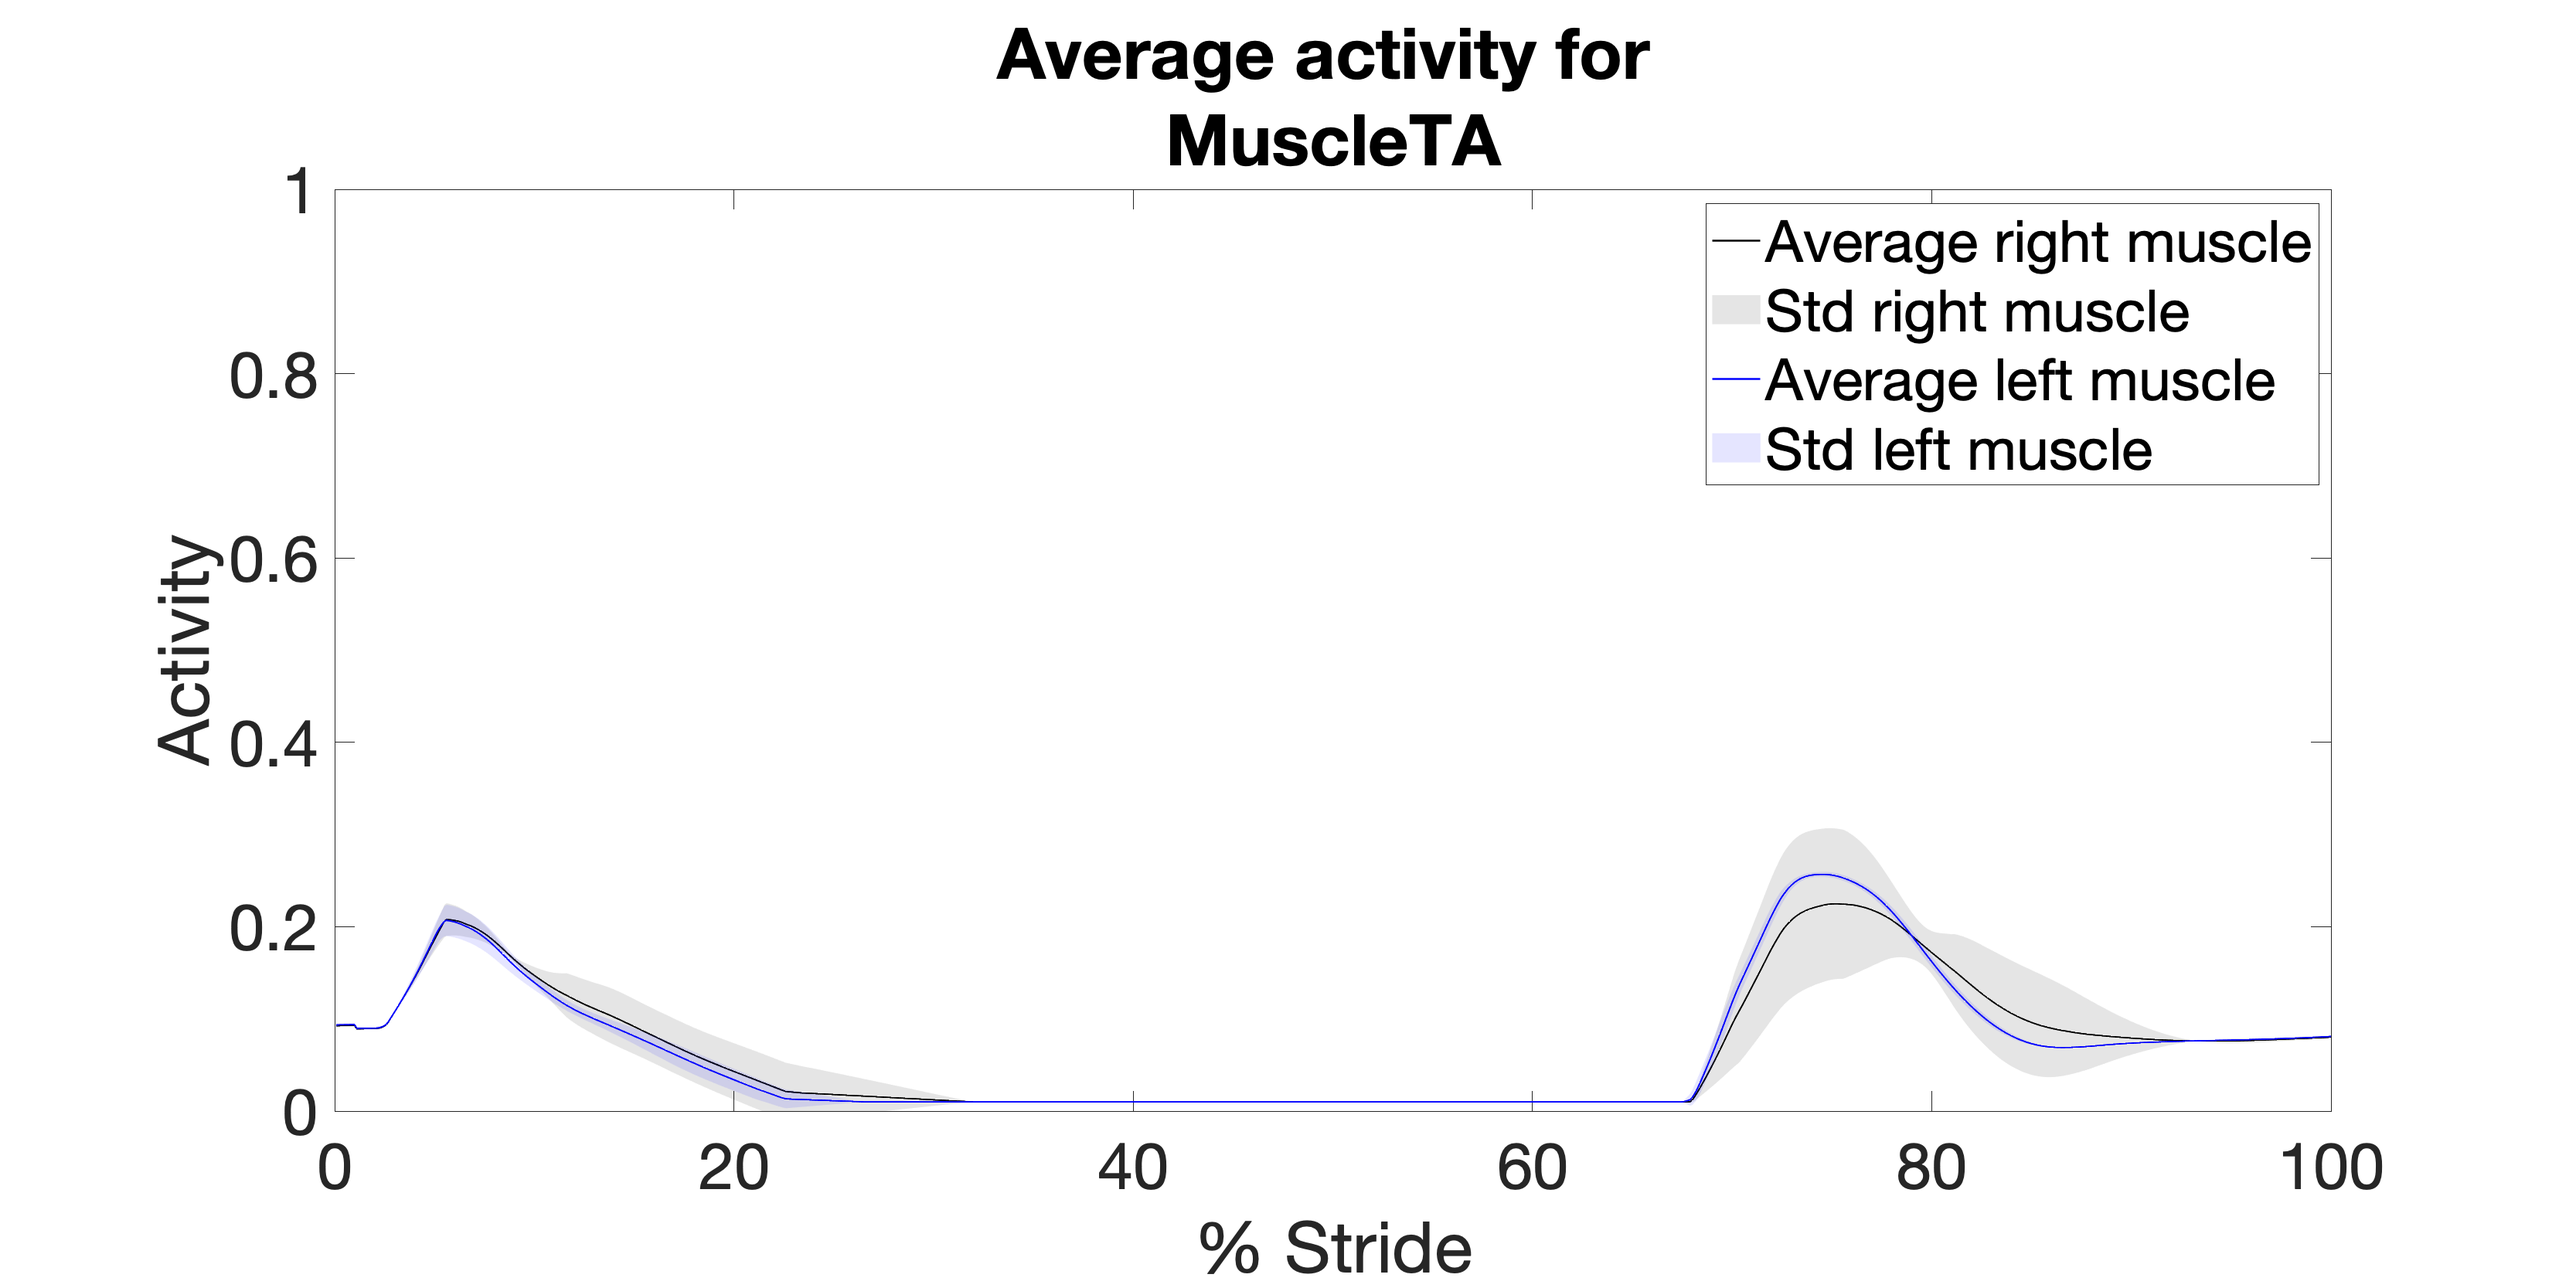
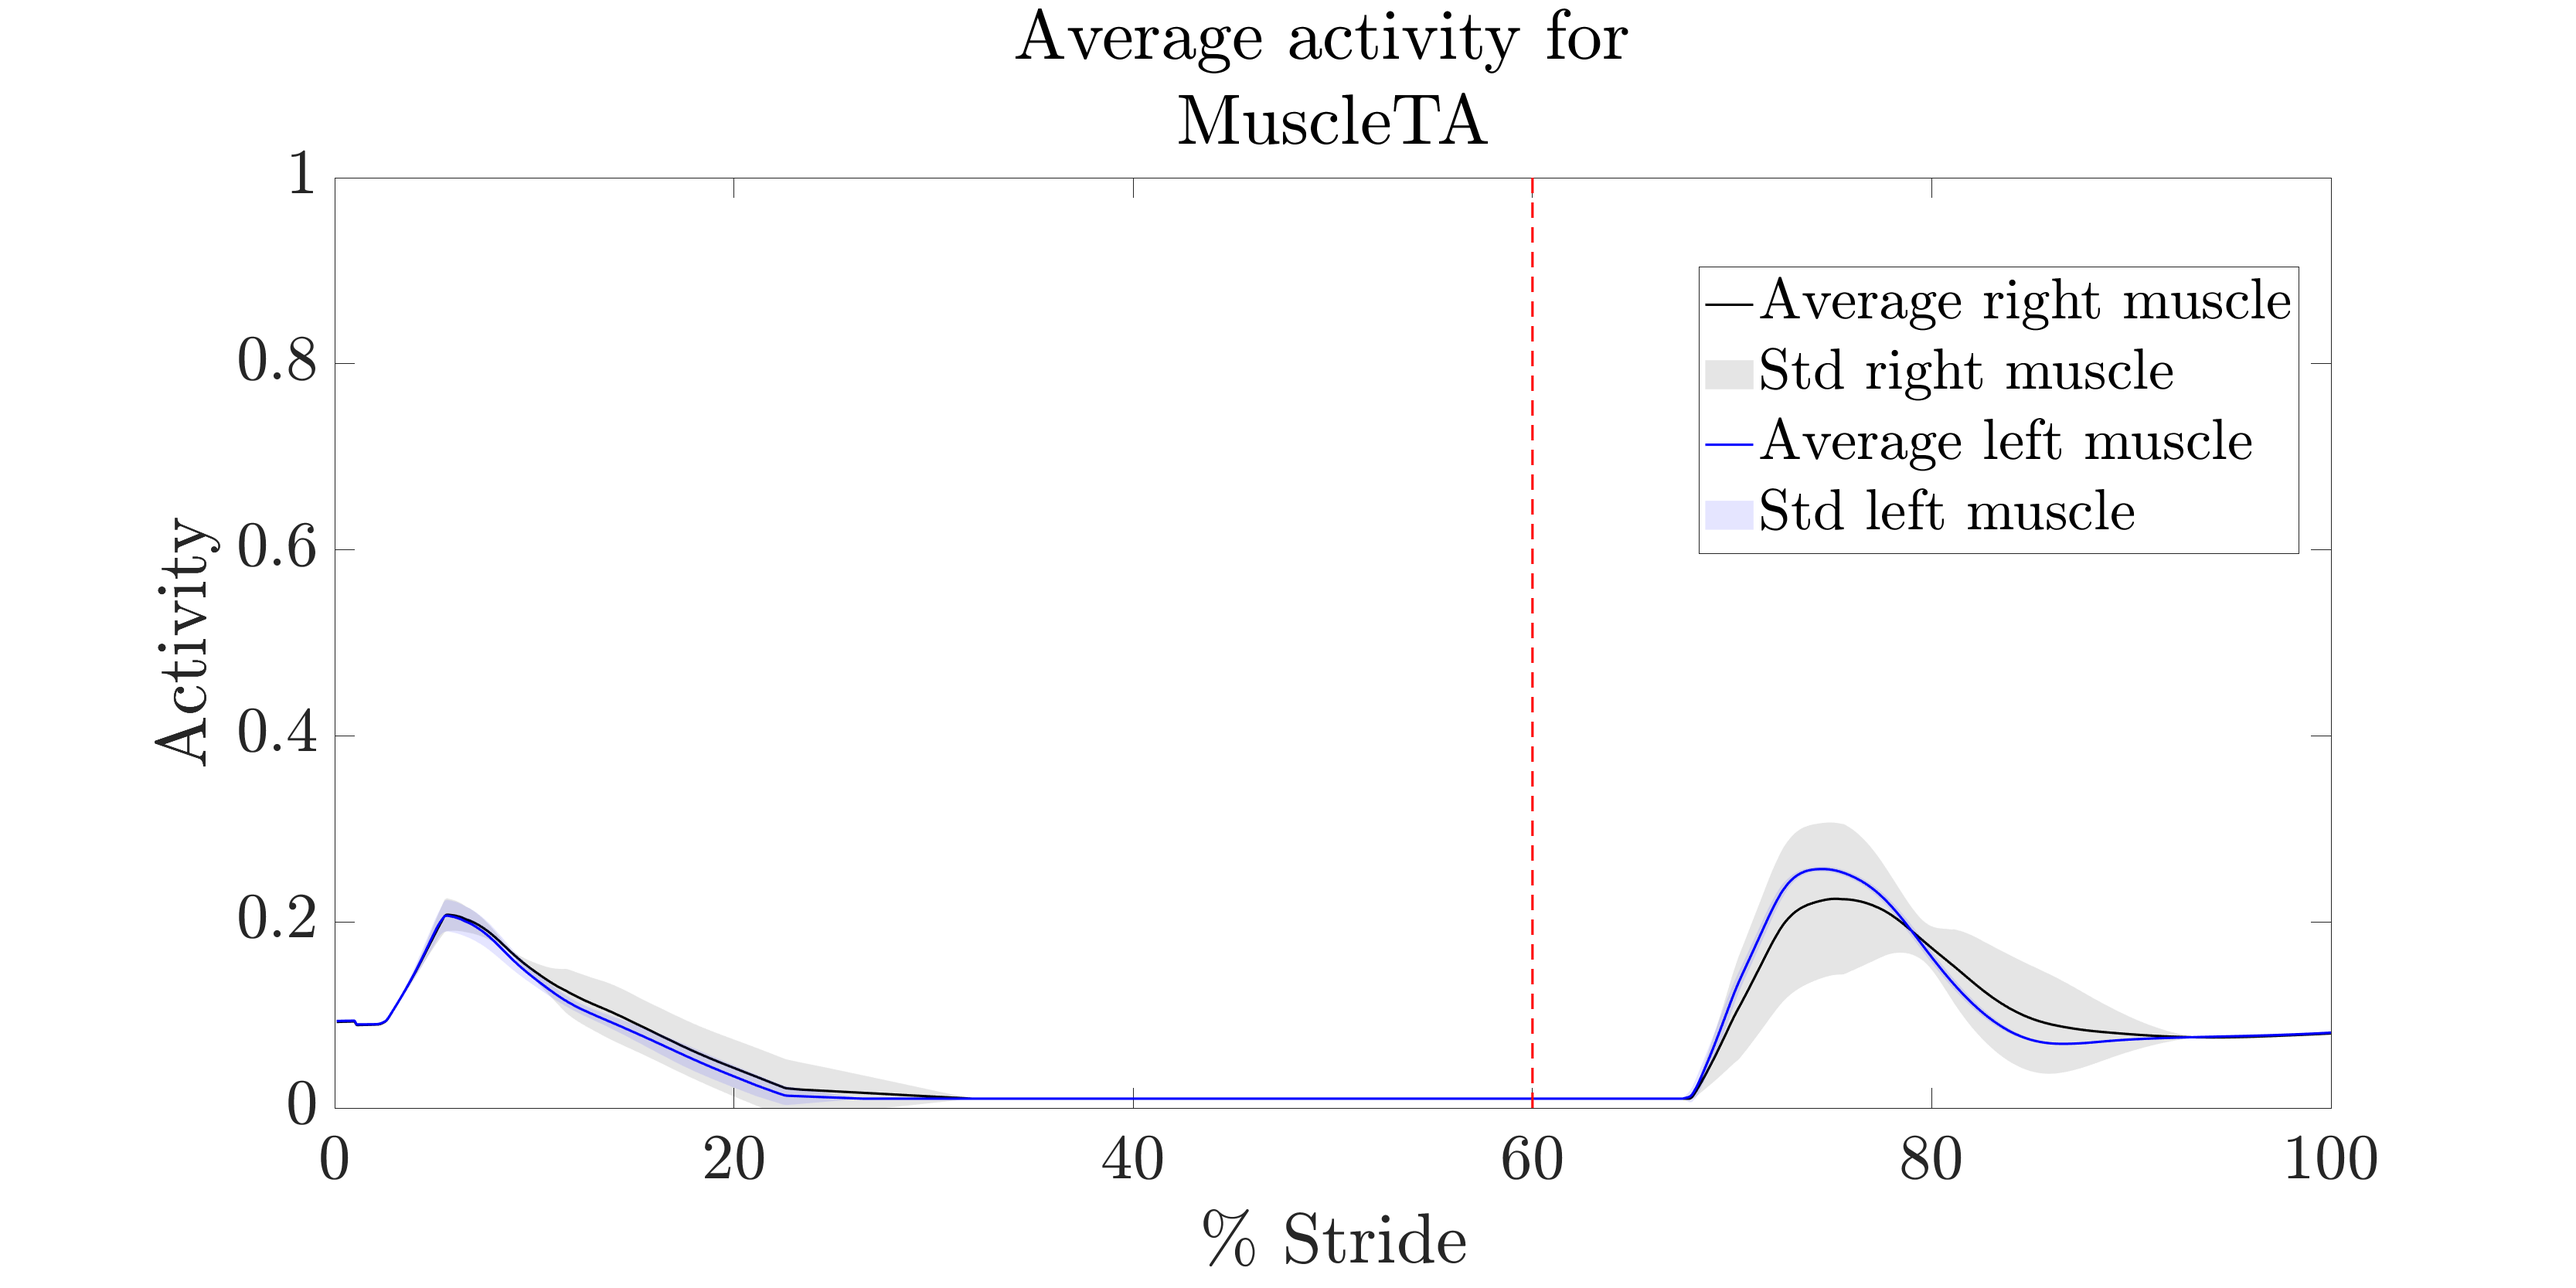
blabla

diff --git a/GEYER_Assignment/exercise2_data/Ex2.m b/GEYER_Assignment/exercise2_data/Ex2.m
@@ -167,7 +167,7 @@ for muscle = 1: length(muscles)
     indices_right = 1:1:length(mean_muscles_right.(muscles{muscle}));
     indices_right = (indices_right/nbr_points)*100;
     figure;
-    plot(indices_right,mean_muscles_right.(muscles{muscle}),'k','LineWidth',1.2);
+    plot(indices_right,mean_muscles_right.(muscles{muscle}),'k','LineWidth',1.5);
     fill_x = [indices_right,fliplr(indices_right)];
     fill_y = [mean_muscles_right.(muscles{muscle}) - std_muscles_right.(muscles{muscle}),fliplr((mean_muscles_right.(muscles{muscle}) + std_muscles_right.(muscles{muscle})))];
     patch(fill_x,fill_y,'k','EdgeColor','none');
@@ -175,19 +175,23 @@ for muscle = 1: length(muscles)
     hold on;
     indices_left = 1:1:length(mean_muscles_left.(muscles{muscle}));
     indices_left = (indices_left/nbr_points)*100;
-    plot(indices_left,mean_muscles_left.(muscles{muscle}),'b','LineWidth',1.2);
+    plot(indices_left,mean_muscles_left.(muscles{muscle}),'b','LineWidth',1.5);
+    
     fill_x = [indices_left,fliplr(indices_left)];
     fill_y = [mean_muscles_left.(muscles{muscle}) - std_muscles_left.(muscles{muscle}),fliplr((mean_muscles_left.(muscles{muscle}) + std_muscles_left.(muscles{muscle})))];
     patch(fill_x,fill_y,'b','EdgeColor','none');
     alpha(.1)
     
+    line([60 60], [0 1],'Color','red','LineStyle','--','LineWidth',1.5)
+    
     ax = gca;
     ax.FontSize = 40;
     axis([0 100 0 1])
-    xlabel('% Stride');
-    ylabel('Activity');
-    legend('Average right muscle','Std right muscle','Average left muscle','Std left muscle');
-    title({'Average activity for ',num2str(muscles{muscle})});
+    set(gca,'TickLabelInterpreter', 'latex');
+    xlabel('\% Stride','interpreter','latex');
+    ylabel('Activity','interpreter','latex');
+    legend('Average right muscle','Std right muscle','Average left muscle','Std left muscle','Location','Best','interpreter','latex');
+    title({'Average activity for ',num2str(muscles{muscle})},'interpreter','latex');
     set(gcf,'Position',[0 0 1600 800]);
     saveas(gcf,['Activity', num2str(muscles{muscle})],'png');
 end
@@ -234,7 +238,7 @@ for angle = 1: length(angles)
     indices_right = 1:1:length(mean_angles_right.(angles{angle}));
     indices_right = (indices_right/nbr_points)*100;
     figure;
-    plot(indices_right,mean_angles_right.(angles{angle}),'k','LineWidth',1.2);
+    plot(indices_right,mean_angles_right.(angles{angle}),'k','LineWidth',1.5);
     fill_x = [indices_right,fliplr(indices_right)];
     fill_y = [mean_angles_right.(angles{angle}) - std_angles_right.(angles{angle}),fliplr((mean_angles_right.(angles{angle}) + std_angles_right.(angles{angle})))];
     patch(fill_x,fill_y,'k','EdgeColor','none');
@@ -242,18 +246,24 @@ for angle = 1: length(angles)
     hold on;
     indices_left = 1:1:length(mean_angles_left.(angles{angle}));
     indices_left = (indices_left/nbr_points)*100;
-    plot(indices_left,mean_angles_left.(angles{angle}),'b','LineWidth',1.2);
+    plot(indices_left,mean_angles_left.(angles{angle}),'b','LineWidth',1.5);
     fill_x = [indices_left,fliplr(indices_left)];
     fill_y = [mean_angles_left.(angles{angle}) - std_angles_left.(angles{angle}),fliplr((mean_angles_left.(angles{angle}) + std_angles_left.(angles{angle})))];
     patch(fill_x,fill_y,'b','EdgeColor','none');
     alpha(.1)
+    
+    y_min = min(mean_angles_left.(angles{angle}))- 10;
+    y_max = max(mean_angles_left.(angles{angle})) + 10;
+    axis([0 100 y_min y_max])
+    
+    line([60 60],[y_min y_max],'Color','red','LineStyle','--','LineWidth',1.5)
     ax = gca;
     ax.FontSize = 40;
-    
-    xlabel('% Stride');
-    ylabel('Degrees');
-    title({'Average activity for',num2str(angles{angle})});
-    legend('Average right angle','Std right angle','Average left angle','Std left angle','Location','Best');
+    set(gca,'TickLabelInterpreter', 'latex');
+    xlabel('\% Stride','interpreter','latex');
+    ylabel('Degrees','interpreter','latex');
+    legend('Average right angle','Std right angle','Average left angle','Std left angle','Location','Best','interpreter','latex');
+    title({'Average activity for ',num2str(angles{angle})},'interpreter','latex');
     set(gcf,'Position',[0 0 1600 800]);
     saveas(gcf,['Activity', num2str(angles{angle})],'png');
 end
@@ -302,7 +312,7 @@ for torque= 1: length(torques)
     indices_right = 1:1:length(mean_torques_right.(torques{torque}));
     indices_right = (indices_right/nbr_points)*100;
     figure;
-    plot(indices_right,mean_torques_right.(torques{torque}),'k','LineWidth',1.2);
+    plot(indices_right,mean_torques_right.(torques{torque}),'k','LineWidth',1.5);
     fill_x = [indices_right,fliplr(indices_right)];
     fill_y = [mean_torques_right.(torques{torque}) - std_torques_right.(torques{torque}),fliplr((mean_torques_right.(torques{torque}) + std_torques_right.(torques{torque})))];
     patch(fill_x,fill_y,'k','EdgeColor','none');
@@ -310,19 +320,28 @@ for torque= 1: length(torques)
     hold on;
     indices_left = 1:1:length(mean_torques_left.(torques{torque}));
     indices_left = (indices_left/nbr_points)*100;
-    plot(indices_left,mean_torques_left.(torques{torque}),'b','LineWidth',1.2);
+    plot(indices_left,mean_torques_left.(torques{torque}),'b','LineWidth',1.5);
     fill_x = [indices_left,fliplr(indices_left)];
     fill_y = [mean_torques_left.(torques{torque}) - std_torques_left.(torques{torque}),fliplr((mean_torques_left.(torques{torque}) + std_torques_left.(torques{torque})))];
     patch(fill_x,fill_y,'b','EdgeColor','none');
     alpha(.1)
+    
+    
+    y_min = min(mean_torques_left.(torques{torque}))- 10;
+    y_max = max(mean_torques_left.(torques{torque})) + 10;
+    axis([0 100 y_min y_max])
+    
+    line([60 60],[y_min y_max],'Color','red','LineStyle','--','LineWidth',1.5)
     ax = gca;
     ax.FontSize = 40;
-    xlabel('% Stride');
-    ylabel('Torque');
-    title({'Average activity for ',num2str(torques{torque})});
-    legend('Average right torque','Std right torque','Average left torque','Std left torque');
+    set(gca,'TickLabelInterpreter', 'latex');
+    xlabel('\% Stride','interpreter','latex');
+    ylabel('Torque','interpreter','latex');
+    legend('Average right torque','Std right torque','Average left torque','Std left torque','Location','Best','interpreter','latex');
+    title({'Average activity for ',num2str(torques{torque})},'interpreter','latex');
     set(gcf,'Position',[0 0 1600 800]);
     saveas(gcf,['Activity', num2str(torques{torque})],'png');
+    
 end
 
 

diff --git a/GEYER_Assignment/exercise1_data/Ex1.m b/GEYER_Assignment/exercise1_data/Ex1.m
@@ -81,6 +81,7 @@ swings_durations_right = {'swing_duration_right1','swing_duration_right2','swing
 FF.stride_duration_left_total = [];
 FF.stance_duration_left_total = [];
 FF.swing_duration_left_total = [];
+FF.strides_freqs_left_total = [];
 for nbr=1:nbr_data
     current_HS = FF.HS_left{nbr};
     current_TO = FF.TO_left{nbr};
@@ -88,7 +89,7 @@ for nbr=1:nbr_data
     for i = 1: length(current_HS) -1
         % stride
         FF.(strides_durations_left{nbr})(i) = current_HS(i+1) - current_HS(i);
-        FF.(strides_freqs_left{nbr})(i) = 2./ (current_HS(i+1) - current_HS(i)); % WHY don't we stock this???
+        FF.(strides_freqs_left{nbr})(i) = 1./ (current_HS(i+1) - current_HS(i)); % stride freq does not have the factor 2!!!
         
         % stance
         FF.(stances_durations_left{nbr})(i) = current_TO(i+1) - current_HS(i);
@@ -99,6 +100,7 @@ for nbr=1:nbr_data
     FF.stride_duration_left_total = [FF.stride_duration_left_total, FF.(strides_durations_left{nbr})];
     FF.stance_duration_left_total = [FF.stance_duration_left_total, FF.(stances_durations_left{nbr})];
     FF.swing_duration_left_total = [FF.swing_duration_left_total, FF.(swings_durations_left{nbr})];
+    FF.strides_freqs_left_total = [FF.strides_freqs_left_total, FF.(strides_freqs_left{nbr})];
 end
 
 
@@ -106,6 +108,7 @@ end
 FF.stride_duration_right_total = [];
 FF.stance_duration_right_total = [];
 FF.swing_duration_right_total = [];
+FF.strides_freqs_right_total = [];
 for nbr=1:nbr_data
     current_HS = FF.HS_right{nbr};
     current_TO = FF.TO_right{nbr};
@@ -114,7 +117,7 @@ for nbr=1:nbr_data
         
         % stride
         FF.(strides_durations_right{nbr})(i) = current_HS(i+1) - current_HS(i);
-        FF.(strides_freqs_right{nbr})(i) = 2./ (current_HS(i+1) - current_HS(i));
+        FF.(strides_freqs_right{nbr})(i) = 1./ (current_HS(i+1) - current_HS(i));
         
         % stance
         FF.(stances_durations_right{nbr})(i) = current_TO(i+1) - current_HS(i);
@@ -125,17 +128,19 @@ for nbr=1:nbr_data
     FF.stride_duration_right_total = [FF.stride_duration_right_total, FF.(strides_durations_right{nbr})];
     FF.stance_duration_right_total = [FF.stance_duration_right_total, FF.(stances_durations_right{nbr})];
     FF.swing_duration_right_total = [FF.swing_duration_right_total, FF.(swings_durations_right{nbr})];
-    
+    FF.strides_freqs_right_total = [FF.strides_freqs_right_total, FF.(strides_freqs_right{nbr})];
 end
 
 % Both feet
 FF.stride_duration_total = [FF.stride_duration_left_total, FF.stride_duration_right_total];
 FF.stance_duration_total = [FF.stance_duration_left_total, FF.stance_duration_right_total];
 FF.swing_duration_total = [FF.swing_duration_left_total, FF.swing_duration_right_total];
+FF.strides_freqs_total = [FF.strides_freqs_left_total,FF.strides_freqs_right_total];
 
-FF.mean_stride_duration = mean(FF.stride_duration_total);
-FF.mean_stance_duration = mean(FF.stance_duration_total);
-FF.mean_swing_duration = mean(FF.swing_duration_total);
+Final_values.mean_stride_duration = mean(FF.stride_duration_total);
+Final_values.mean_stance_duration = mean(FF.stance_duration_total);
+Final_values.mean_swing_duration = mean(FF.swing_duration_total);
+Final_values.mean_strides_freqs = mean(FF.strides_freqs_total);
 
 %% Double stance
 
@@ -175,14 +180,14 @@ for nbr=1:nbr_data
     FF.double_stance_duration_total = [FF.double_stance_duration_total, FF.(double_stance_durations{nbr})];
 end
 FF.double_stance_duration_total = [FF.double_stance_duration_total, FF.double_stance_duration_total]; %vector is doubled since it contains double stance durations for left and right feet
-FF.mean_double_stance_duration = mean(FF.double_stance_duration_total);
+Final_values.mean_double_stance_duration = mean(FF.double_stance_duration_total);
 
 
 %% Calculate the average proportions
 
-Result.mean_stride_over_stance = FF.mean_stride_duration/FF.mean_stance_duration;
-Result.mean_stance_over_swing = FF.mean_stance_duration/FF.mean_swing_duration;
-Result.mean_swing_over_double_stance = FF.mean_swing_duration/FF.mean_double_stance_duration;
+Result.mean_stride_over_stance = Final_values.mean_stride_duration/Final_values.mean_stance_duration;
+Result.mean_stance_over_swing = Final_values.mean_stance_duration/Final_values.mean_swing_duration;
+Result.mean_swing_over_double_stance = Final_values.mean_swing_duration/Final_values.mean_double_stance_duration;
 
 Result.std_stride_over_stance = std(FF.stride_duration_total./FF.stance_duration_total);
 Result.std_stance_over_swing = std(FF.stance_duration_total./FF.swing_duration_total);
@@ -215,6 +220,9 @@ beta = 0.5;
 for nbr=1:nbr_data
     walking_speed_left{nbr} =  ((mean(FF.(strides_freqs_left{nbr}))* sample_freq)./alpha).^(1/beta);
     walking_speed_right{nbr} =  ((mean(FF.(strides_freqs_right{nbr}))* sample_freq)./alpha).^(1/beta);
+end
+for nbr=1:nbr_data
+Final_values.walking_speed{nbr} = (walking_speed_left{nbr} + walking_speed_right{nbr})/2; % mean between left and right foot
 end
 %% EXERCISE 1b
 
